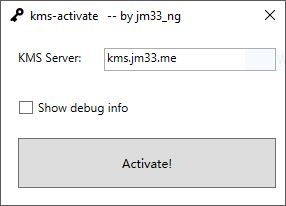
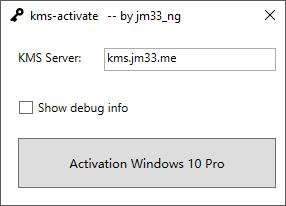
display windows version on button

Changed region(s): [[0.2238, 0.7573, 0.7832, 0.8155]]

diff --git a/win10-activate/MainWindow.xaml.cs b/win10-activate/MainWindow.xaml.cs
@@ -23,7 +23,9 @@ namespace kms_activate
                 Application.Current.Shutdown();
             }
 
+            string winVersion = Registry.GetValue(@"HKEY_LOCAL_MACHINE\SOFTWARE\Microsoft\Windows NT\CurrentVersion", "ProductName", "").ToString();
             InitializeComponent();
+            button.Content = "Activation " + winVersion;
         }
 
         public bool IsAdmin()
